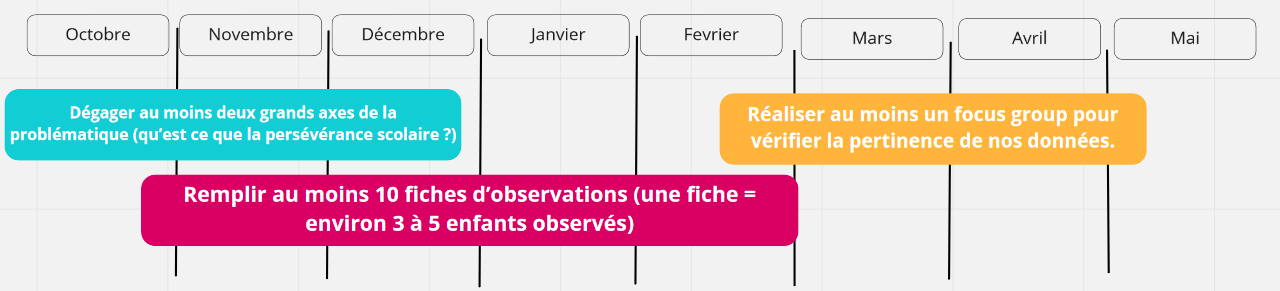
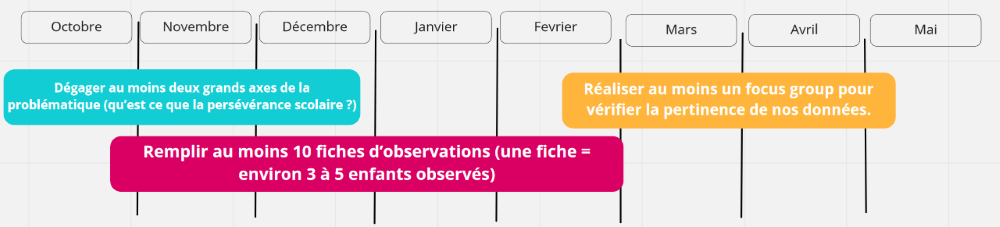
resize some img, modify false links, delete useless img

diff --git a/footer.html b/footer.html
@@ -20,7 +20,7 @@
                                         <li><img src="images/3.png" alt="#"> <a href="travail.php"> Travail réalisé</a> </li>
                                         <li><img src="images/3.png" alt="#"> <a href="donnees.php">Données</a> </li>
                                         <li><img src="images/3.png" alt="#"> <a href="gestiondeprojet.php">Gestion de projet</a> </li>
-                                        <li><img src="images/3.png" alt="#"> <a href="retour_planvert.php.php">Fin du projet</a> </li>
+                                        <li><img src="images/3.png" alt="#"> <a href="retour_planvert.php">Fin du projet</a> </li>
                                     </ul>
                                 </div>
                             </div>

diff --git a/index.php b/index.php
@@ -291,7 +291,7 @@
                 <div class="row">
                     <div class="col-md-12">
                         <div class="titlepage">
-                            <h2>Gestion de projet <img src="images/3.png" alt="#"></h2><br/><a href="travail.html">Pour en savoir plus sur la gestion de projet</a>
+                            <h2>Gestion de projet <img src="images/3.png" alt="#"></h2><br/><a href="gestiondeprojet.php">Pour en savoir plus sur la gestion de projet</a>
                         </div>
                     </div>
                 </div>
@@ -300,7 +300,7 @@
                         <div class="row">
                             <div class="col-xl-4 col-lg-4 col-md-4 col-sm-12">
                                 <div class="two-box">
-                                    <figure><img src="images/contexte.jpeg" alt="#"/></figure>
+                                    <figure><img src="images/gestionproj.png" alt="#"/></figure>
                                 </div>
                             </div>
 
@@ -322,7 +322,7 @@
                 <div class="row">
                     <div class="col-md-12">
                         <div class="titlepage">
-                            <h2>Fin du projet <img src="images/3.png" alt="#"></h2><br/><a href="travail.html">Pour en savoir plus sur la fin du projet</a>
+                            <h2>Fin du projet <img src="images/3.png" alt="#"></h2><br/><a href="retour_planvert.php">Pour en savoir plus sur la fin du projet</a>
                         </div>
                     </div>
                 </div>
